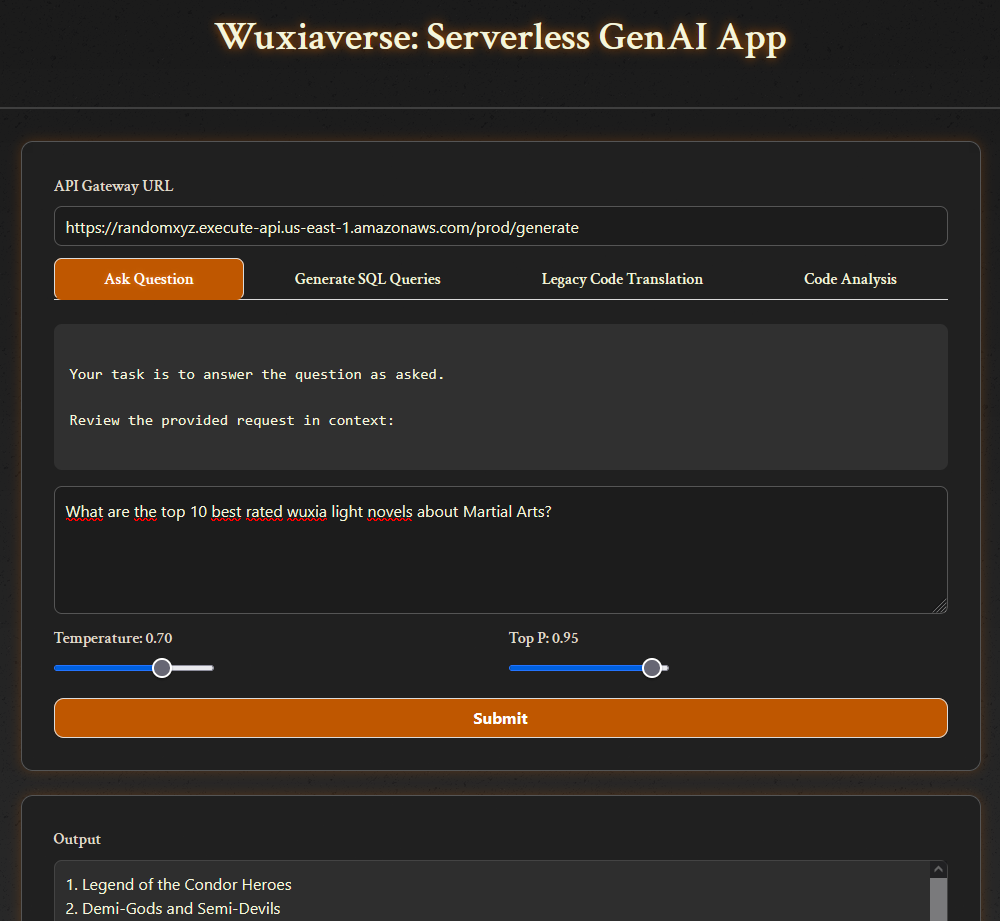
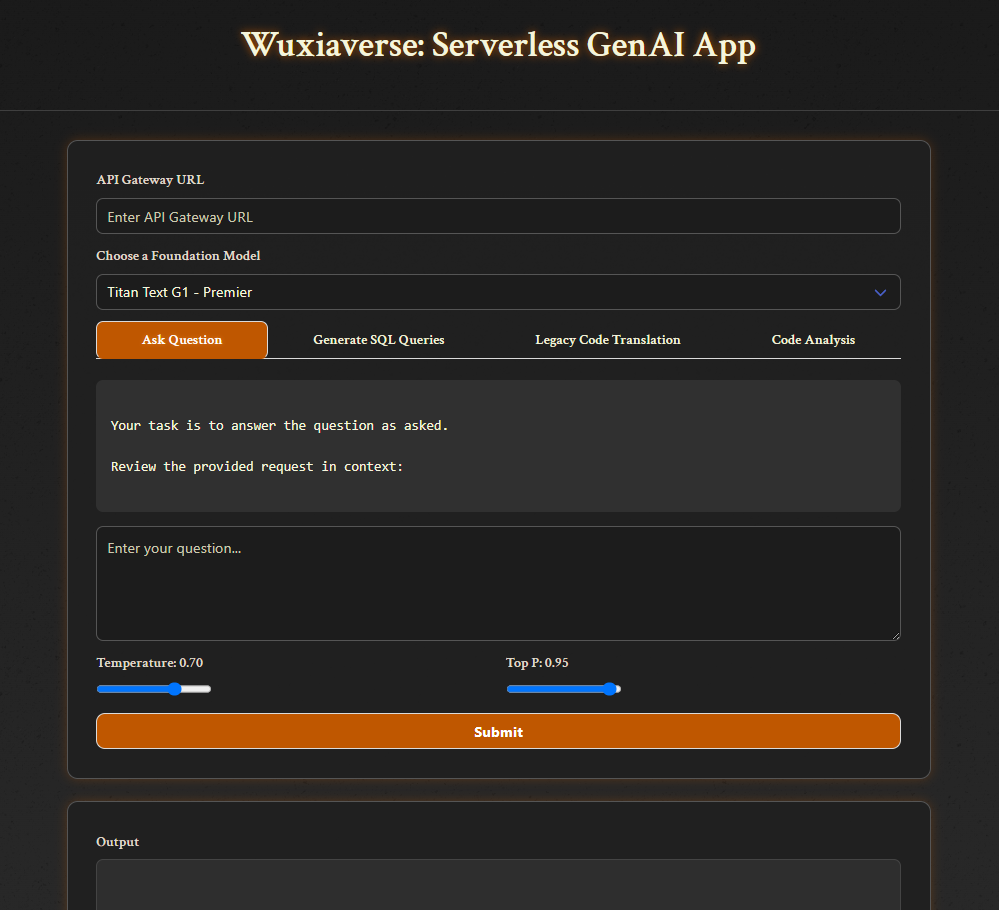
Integrating modelId in the UI

diff --git a/ui/wuxia.js b/ui/wuxia.js
@@ -3,34 +3,35 @@ function callApi(templateType) {
   const contentId = `${templateType}-content`;
   const temperatureId = `${templateType}-temperature`;
   const topPId = `${templateType}-topP`;
-
+  
+  const modelId = document.getElementById('modelSelector').value;
   const content = document.getElementById(contentId).value;
   const temperature = parseFloat(document.getElementById(temperatureId).value);
   const topP = parseFloat(document.getElementById(topPId).value);
 
-  let prefix;
+  let templateId;
   switch (templateType) {
-	case 'generate': prefix = 'generate_code'; break;
-	case 'translate': prefix = 'translate_code'; break;
-	case 'analyze': prefix = 'analyze_code'; break;
-	case 'ask': prefix = 'ask_question'; break;
-	default: prefix = '';
+    case 'generate': templateId = 'generate_code'; break;
+    case 'translate': templateId = 'translate_code'; break;
+    case 'analyze': templateId = 'analyze_code'; break;
+    case 'ask': templateId = 'ask_question'; break;
+    default: templateId = '';
   }
 
-  const requestBody = { prefix, content, temperature, topP };
+  const requestBody = { modelId, templateId, content, temperature, topP };
 
   fetch(apiGatewayUrl, {
-	method: 'POST',
-	headers: { 'Content-Type': 'application/json' },
-	body: JSON.stringify(requestBody)
+    method: 'POST',
+    headers: { 'Content-Type': 'application/json' },
+    body: JSON.stringify(requestBody)
   })
   .then(response => response.text())
   .then(outputText => {
-	document.getElementById('output').value = outputText;
+	  document.getElementById('output').value = outputText;
   })
   .catch(error => {
-	console.error("Error:", error);
-	alert("An error occurred: " + error);
+    console.error("Error:", error);
+    alert("An error occurred: " + error);
   });
 }
 

diff --git a/ui/index.html b/ui/index.html
@@ -27,6 +27,19 @@
           </div>
         </div>
 
+        <div class="field">
+          <label class="label has-text-grey-light" for="modelSelector">Choose a Foundation Model</label>
+          <div class="control">
+            <div class="select is-fullwidth">
+              <select id="modelSelector">
+                <option value="amazon.titan-text-express-v1">Titan Text G1 - Express</option>
+                <option value="amazon.titan-text-premier-v1:0" selected>Titan Text G1 - Premier</option>
+                <option value="mistral.mixtral-8x7b-instruct-v0:1">Mixtral 8x7B Instruct</option>
+              </select>
+            </div>
+          </div>
+        </div>
+
         <div class="tabs is-boxed is-fullwidth">
           <ul>
             <li class="is-active"><a data-tab="ask">Ask Question</a></li>

diff --git a/ui/wuxia.css b/ui/wuxia.css
@@ -83,7 +83,8 @@ body {
 }
 
 textarea.textarea,
-input.input {
+input.input,
+.select select {
   background-color: #1c1c1c;
   color: #f5f5dc;
   border: 1px solid #555;

diff --git a/bedrock_demo/app.py b/bedrock_demo/app.py
@@ -17,13 +17,24 @@ def lambda_handler(event, context):
 
     try:
         request_body = json.loads(event['body'])
-        prefix = request_body.get('prefix')
+        template_id = request_body.get('templateId')
         content  = request_body.get('content')
         temperature  = request_body.get('temperature')
-        topP  = request_body.get('topP')
+        top_p  = request_body.get('topP')
+        model_id  = request_body.get('modelId')
 
-        model = BedrockModelBuilder.build(os.environ['BEDROCK_MODEL_ID'])        
-        template = TemplateBuilder.build(prefix).generate_template(context=content)
+        if not model_id or not template_id:
+            message = "Event body is missing one or more required parameters: modelId or templateId"
+            logger.error('message')
+            raise ValueError(message)
+
+        if not temperature or not top_p:
+            message = "Event body is missing one or more required parameters: temperature or topP"
+            logger.error('message')
+            raise ValueError(message)
+
+        model = BedrockModelBuilder.build(model_id)        
+        template = TemplateBuilder.build(template_id).generate_template(context=content)
         
         prompt_template = ChatPromptTemplate(
             messages=[HumanMessagePromptTemplate.from_template(template)],
@@ -32,7 +43,7 @@ def lambda_handler(event, context):
         
         prompt = prompt_template.format(context=content)
 
-        input_data = model.generate_input_data(prompt, temperature, topP)
+        input_data = model.generate_input_data(prompt, temperature, top_p)
 
         logger.info('Input data: %s', json.dumps(input_data))
 

diff --git a/README.md b/README.md
@@ -91,8 +91,6 @@ sam deploy
   + mistral.mixtral-8x7b-instruct-v0:1
   + amazon.titan-text-express-v1
 
-- You need to set BEDROCK_MODEL_ID environment variable in your lambda function after the deployment.
-
 - You need to upload the files in folder ui (index.html, wuxia.css and wuxia.js) to the S3 bucket created by the project so that it can get picked up by CloudFront.
 
 - This project uses the latest OAC-based CloudFront–S3 setup (not legacy OAI).
@@ -106,8 +104,6 @@ Ideas for next steps:
 - Add authentication with Cognito or JWT
 
 - Log prompts and completions to DynamoDB
-
-- Add a dropdown to choose model from
 
 - Add support for more models (Claude, Llama, etc.)
 
